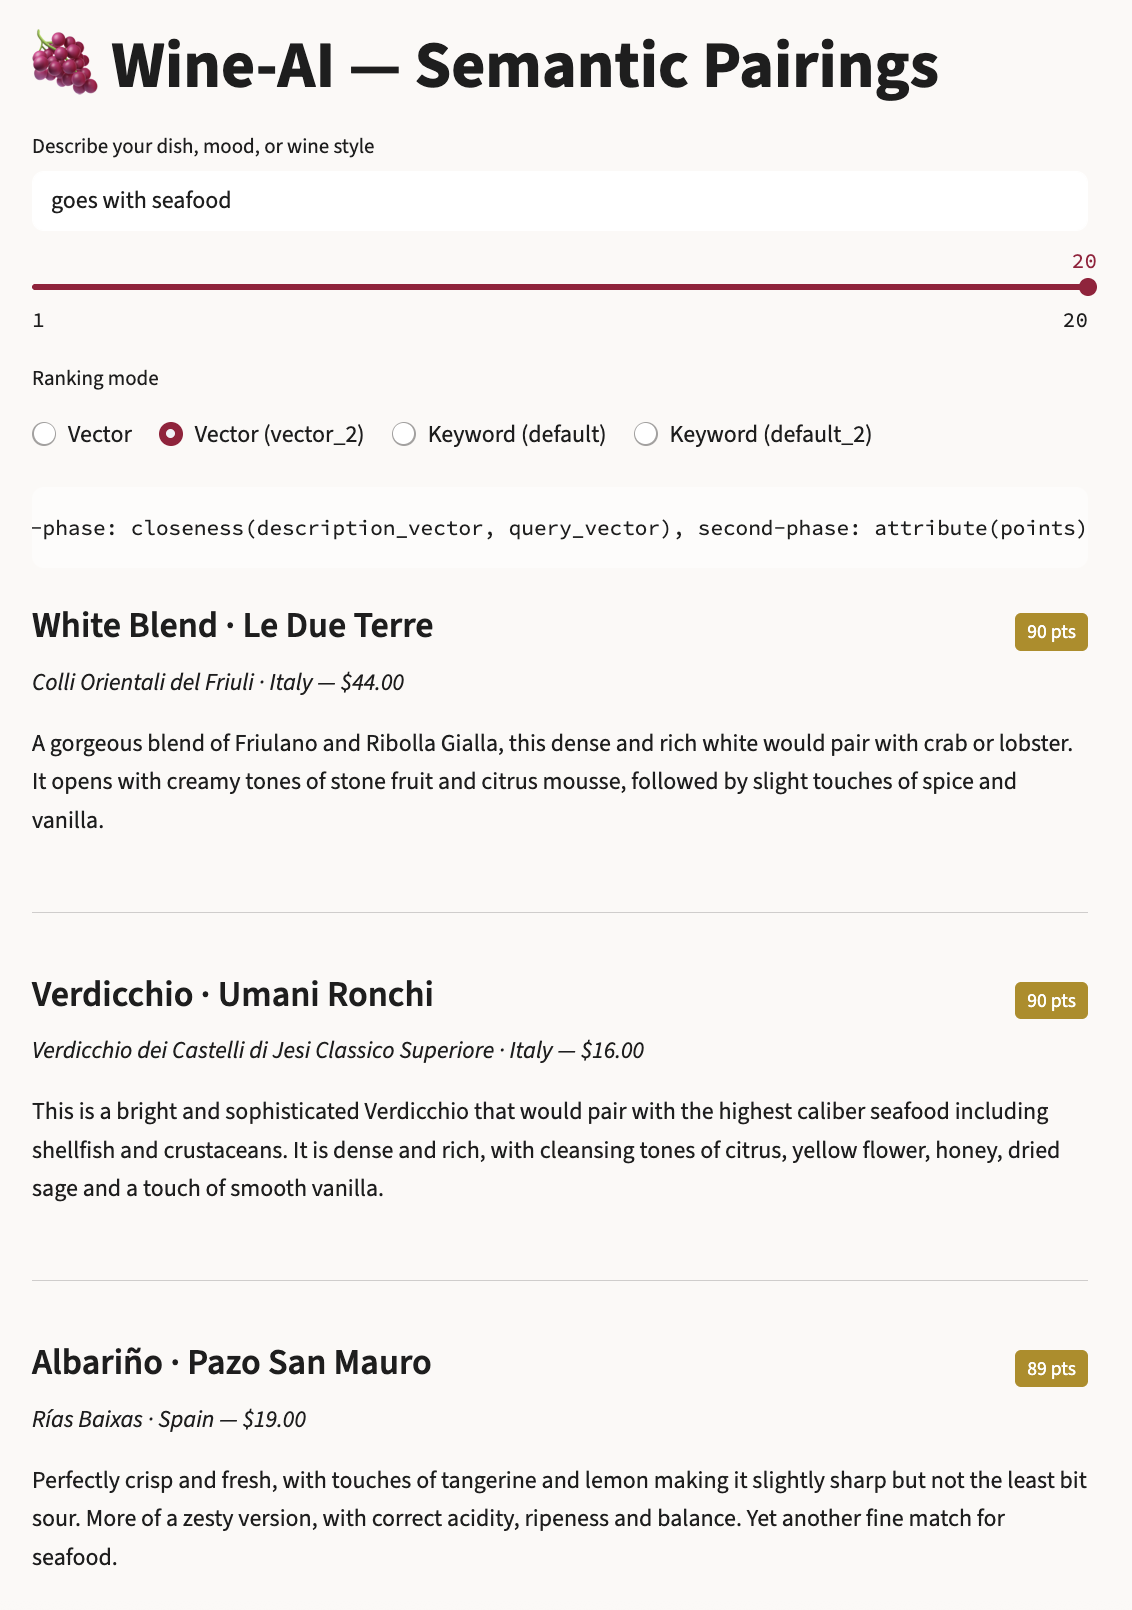
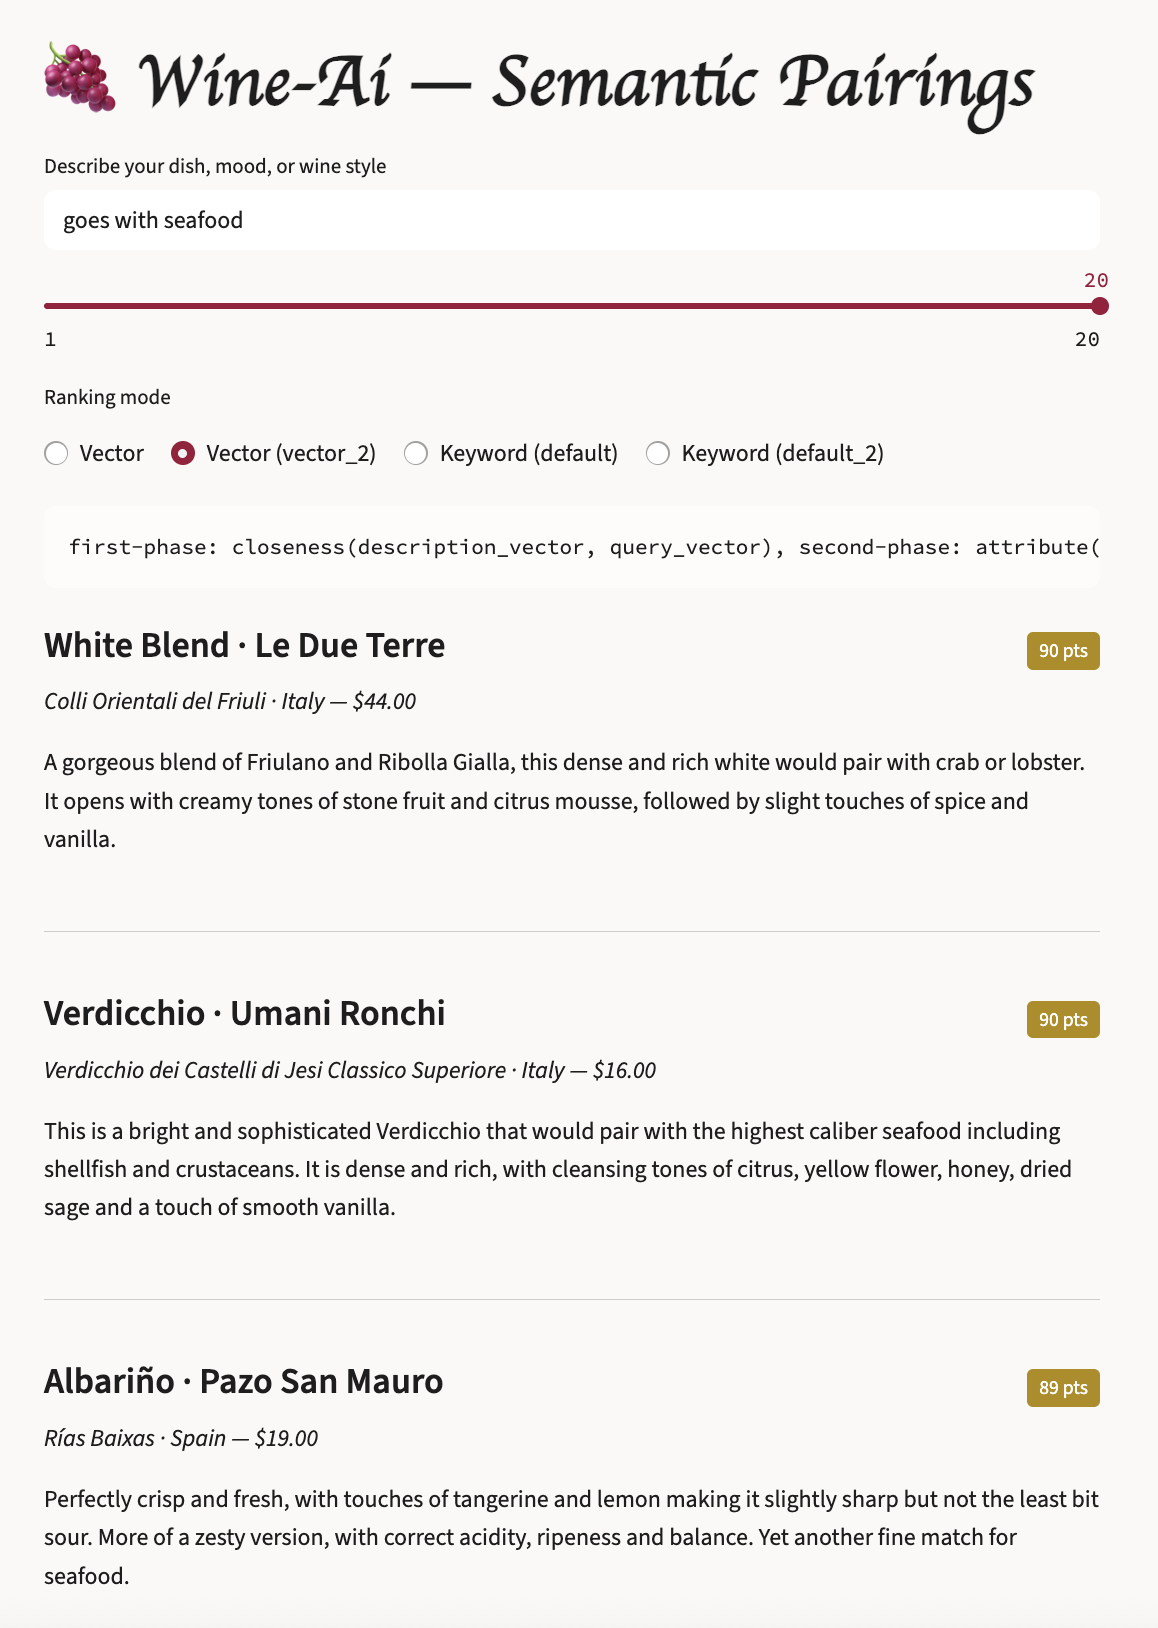
new screenshot.3

diff --git a/ui/streamlit_app.py b/ui/streamlit_app.py
@@ -26,6 +26,12 @@ section.main > div + div .element-container:has(hr){
     border-radius:8px;padding:0.6rem 1rem;
     background:var(--secondary-background-color)
 }
+
+@import url('https://fonts.googleapis.com/css2?family=Caveat:wght@700&display=swap');
+.stApp h1 {
+    font-family: 'Caveat', cursive !important;
+    font-size: 3rem !important;
+}        
 </style>
 """, unsafe_allow_html=True)
 
@@ -150,7 +156,7 @@ def hit_card(hit):
         st.markdown("---")
 
 # ─────────── UI  ───────────
-st.title("🍇  Wine-AI — Semantic Pairings")
+st.title("🍇  Wine-Ai — Semantic Pairings")
 
 q = st.text_input(
     "Describe your dish, mood, or wine style",
